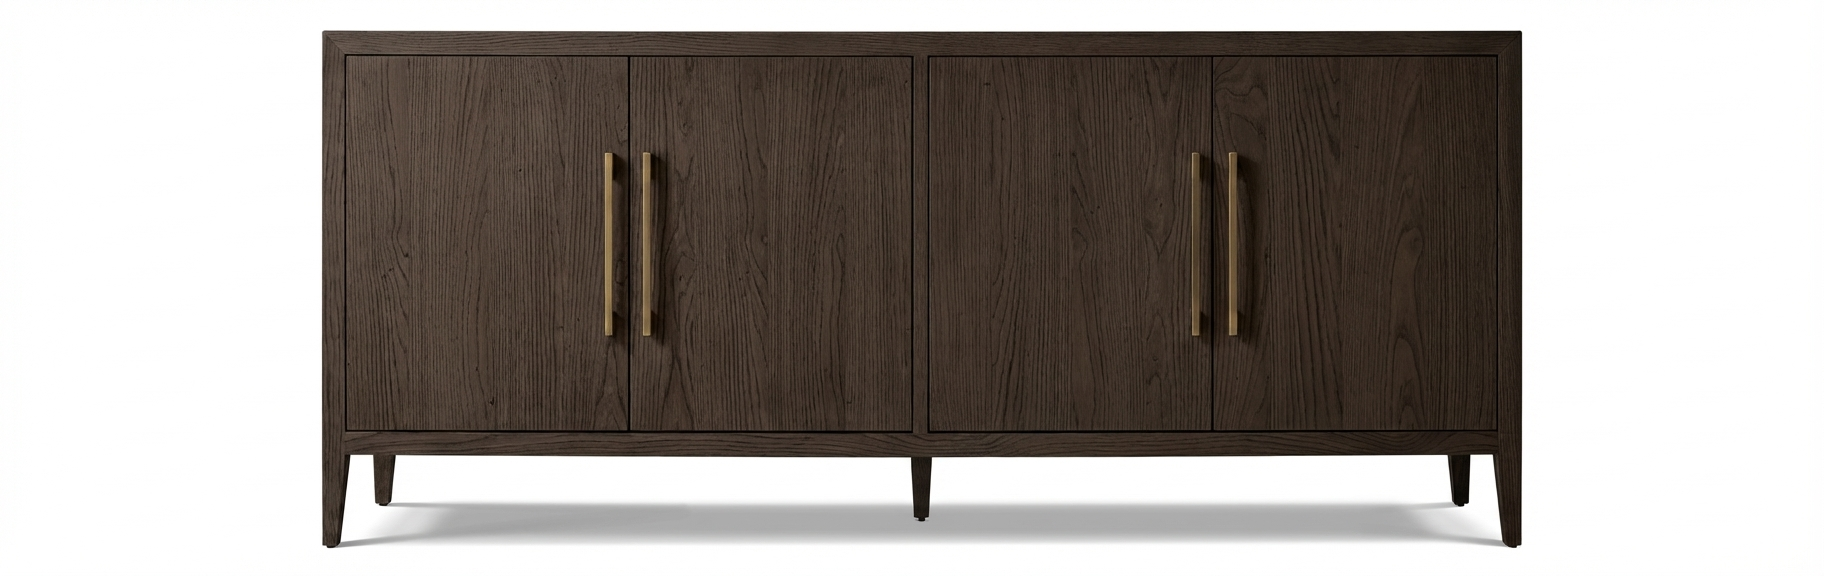
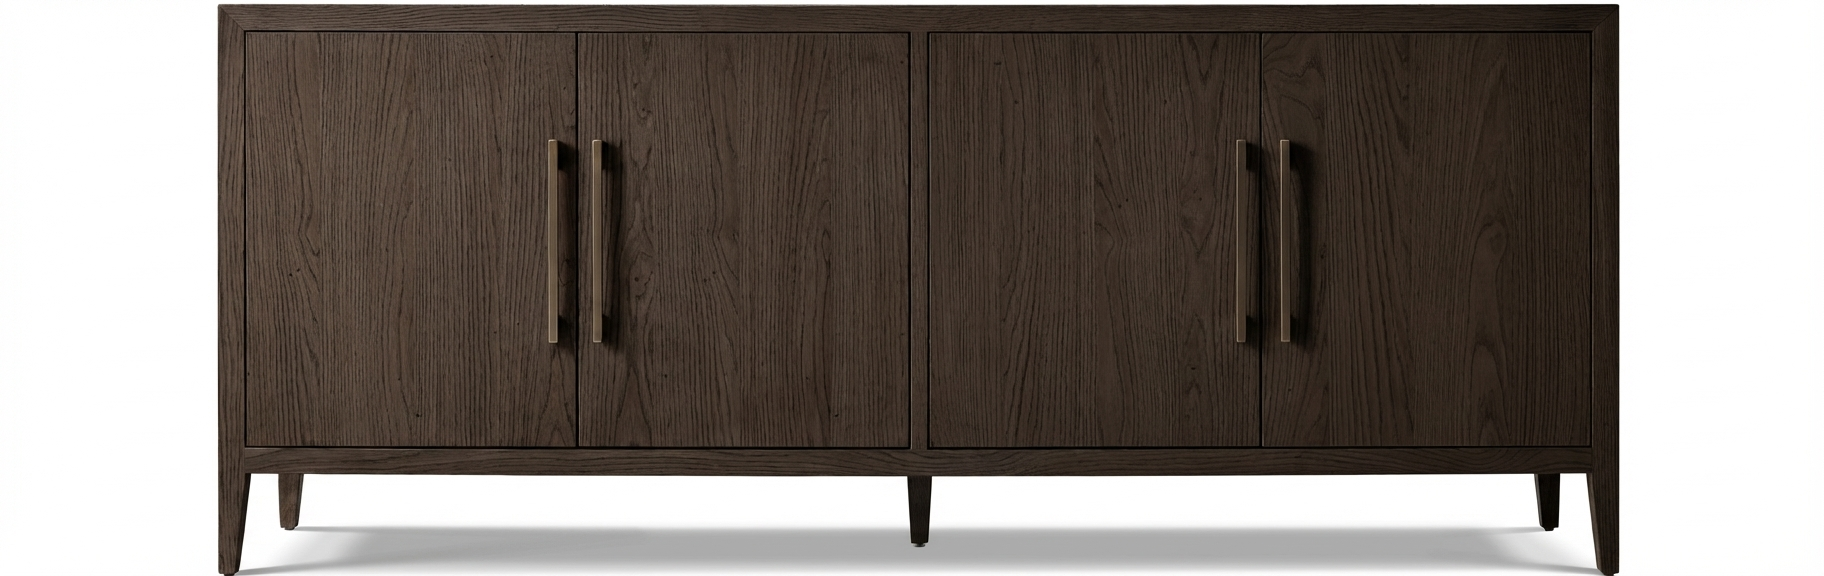
Update retexturing pipeline and refresh outputs

diff --git a/process_assets.py b/process_assets.py
@@ -1,12 +1,13 @@
 import base64
 import io
 import os
+import re
 from pathlib import Path
 from typing import List
 
 import google.generativeai as genai
 from dotenv import load_dotenv
-from PIL import Image
+from PIL import Image, ImageStat
 
 
 BASE_DIR = Path(__file__).parent
@@ -19,6 +20,12 @@ CONVERTIBLE_EXTENSIONS = {".tif", ".tiff", ".jpg", ".jpeg", ".webp"}
 MAX_DIMENSION = 4096
 ENABLE_RETEXTURE = os.getenv("ENABLE_RETEXTURE", "1").lower() not in {"0", "false", "no"}
 REQUEST_MAX_DIMENSION = int(os.getenv("REQUEST_MAX_DIMENSION", "2048"))
+EXCLUDED_SWATCH_SUBSTRINGS = ("_bump", "_color", "_disp", "_spec", "_roughness")
+GREY_CARD_TARGET_VALUE = 118.0  # Approximate sRGB value for 18% gray.
+GREY_CARD_MAX_NEUTRAL = 14.0
+GREY_CARD_MAX_STDDEV = 8.0
+GREY_CARD_MIN_FACTOR = 0.6
+GREY_CARD_MAX_FACTOR = 1.6
 
 # Allow large TIFFs to load; we downscale after opening.
 Image.MAX_IMAGE_PIXELS = None
@@ -75,10 +82,83 @@ def configure_model() -> genai.GenerativeModel:
     return genai.GenerativeModel(model_path)
 
 
-def inline_image(path: Path) -> dict:
+def find_grey_card_patch(image: Image.Image) -> tuple[float, float, float] | None:
+    """Locate a neutral, uniform patch that likely corresponds to the 18% gray card center."""
+    preview = image.convert("RGB")
+    preview.thumbnail((400, 400), Image.LANCZOS)
+    width, height = preview.size
+    if not width or not height:
+        return None
+
+    patch_size = max(8, min(width, height) // 8)
+    step = max(4, patch_size // 2)
+    best_mean: tuple[float, float, float] | None = None
+    best_score: float | None = None
+    best_neutral: float | None = None
+    best_brightness: float | None = None
+
+    for y in range(0, height - patch_size + 1, step):
+        for x in range(0, width - patch_size + 1, step):
+            crop = preview.crop((x, y, x + patch_size, y + patch_size))
+            stat = ImageStat.Stat(crop)
+            mean_r, mean_g, mean_b = stat.mean
+            std_r, std_g, std_b = stat.stddev
+            neutral_deviation = max(abs(mean_r - mean_g), abs(mean_g - mean_b), abs(mean_r - mean_b))
+            uniformity = max(std_r, std_g, std_b)
+            brightness = (mean_r + mean_g + mean_b) / 3
+
+            if brightness < 30 or brightness > 230:
+                continue
+            if uniformity > GREY_CARD_MAX_STDDEV:
+                continue
+
+            score = neutral_deviation * 3 + abs(brightness - GREY_CARD_TARGET_VALUE)
+            if best_score is None or score < best_score:
+                best_score = score
+                best_mean = (mean_r, mean_g, mean_b)
+                best_neutral = neutral_deviation
+                best_brightness = brightness
+
+    if (
+        best_mean
+        and best_neutral is not None
+        and best_neutral <= GREY_CARD_MAX_NEUTRAL
+        and best_brightness is not None
+        and 50 <= best_brightness <= 200
+    ):
+        return best_mean
+    return None
+
+
+def calibrate_to_grey_card(image: Image.Image) -> Image.Image:
+    """Return a brightness-calibrated copy using the center gray card patch if present."""
+    grey_color = find_grey_card_patch(image)
+    if not grey_color:
+        return image
+
+    brightness = sum(grey_color) / 3
+    if brightness <= 1:
+        return image
+
+    factor = GREY_CARD_TARGET_VALUE / brightness
+    if 0.97 <= factor <= 1.03:
+        return image
+
+    factor = max(GREY_CARD_MIN_FACTOR, min(GREY_CARD_MAX_FACTOR, factor))
+
+    base = image.convert("RGBA")
+    alpha = base.getchannel("A")
+    rgb = base.convert("RGB").point(lambda v: max(0, min(255, int(round(v * factor)))), mode="RGB")
+    r, g, b = rgb.split()
+    return Image.merge("RGBA", (r, g, b, alpha))
+
+
+def inline_image(path: Path, calibrate_grey_card: bool = False) -> dict:
     """Load a PNG and downscale for the request payload if needed."""
     with Image.open(path) as img:
         converted = img.convert("RGBA")
+        if calibrate_grey_card:
+            converted = calibrate_to_grey_card(converted)
         if REQUEST_MAX_DIMENSION and max(converted.size) > REQUEST_MAX_DIMENSION:
             converted.thumbnail((REQUEST_MAX_DIMENSION, REQUEST_MAX_DIMENSION), Image.LANCZOS)
         buffer = io.BytesIO()
@@ -104,16 +184,31 @@ def extract_image_bytes(response) -> bytes:
 def retexture_image(model: genai.GenerativeModel, asset: Path, swatch: Path, output_path: Path) -> None:
     prompt = (
         "Retexture the product in the first image using the material from the second image. "
-        "Preserve the product's shape, lighting, camera angle, and proportions. "
-        "Apply the swatch as the new surface finish realistically. Return a high-quality PNG result."
+        "Use the first image as the exact base: same resolution, framing, camera angle, silhouette, proportions, dimensions, crop, lighting, and background. "
+        "Do NOT move/rotate/zoom the camera; do NOT change object dimensions or perspective; do NOT add/remove/alter any geometry. "
+        "Do NOT paste or show the swatch as a square patch; retexture the product surfaces only while keeping the product visible. "
+        "Apply the swatch to every wood/primary surface (including interior/underside of legs, side panels, edges); leave no original wood visible. "
+        "Background must remain identical to the first image; no swatch text/watermark/ghosting anywhere. "
+        "Apply the swatch ONLY to wood/primary surfaces; do NOT change or recolor metal/hardware/feet/plinth. "
+        "Feet/plinth/hardware must stay exactly as in the first image (no added brass/metal, no recolor). "
+        "Use the swatch colors exactly as shown; no blue/polarizing/tinted shifts. "
+        "Treat filenames as meaningless IDs; do NOT use any filename words (e.g., POLARIZER/FlatLight) as instructions. "
+        "If the swatch image includes a ruler in inches, use it to derive the real-world scale of the material so the texture is applied at accurate size; do not show the ruler in the result. "
+        "If the swatch includes a grayscale reference card, use the center 18% gray patch as your exposure anchor so the material darkness stays physically accurate. "
+        "Return a high-quality PNG result."
     )
 
     response = model.generate_content(
         [
             inline_image(asset),
             {"text": "Product to retexture."},
-            inline_image(swatch),
-            {"text": "Swatch/material to apply."},
+            inline_image(swatch, calibrate_grey_card=False),
+            {
+                "text": (
+                    "Swatch/material image. Apply this material to every wood surface (including leg interiors/undersides/edges); "
+                    "leave any metal/hardware unchanged. Ignore filename words; use only the image."
+                )
+            },
             {"text": prompt},
         ],
         request_options={"timeout": 600},
@@ -125,11 +220,57 @@ def retexture_image(model: genai.GenerativeModel, asset: Path, swatch: Path, out
     print(f"Saved retextured image: {output_path}")
 
 
+def filter_swatch_pngs(swatch_pngs: List[Path]) -> List[Path]:
+    """Drop any swatch files that match excluded substrings (e.g., bump/disp/spec)."""
+    filtered: List[Path] = []
+    for path in swatch_pngs:
+        name = path.stem.lower()
+        if any(token in name for token in EXCLUDED_SWATCH_SUBSTRINGS):
+            print(f"Skipping swatch (excluded): {path.name}")
+            continue
+        filtered.append(path)
+    return filtered
+
+
+def describe_swatch(swatch: Path) -> str:
+    """Provide color/material hints without using filename tokens as instructions."""
+    lowered = swatch.stem.lower()
+    note = ""
+    try:
+        with Image.open(swatch) as img:
+            img = img.convert("RGB")
+            img.thumbnail((256, 256), Image.LANCZOS)
+            pixels = list(img.getdata())
+            r_mean = sum(p[0] for p in pixels) / len(pixels)
+            g_mean = sum(p[1] for p in pixels) / len(pixels)
+            b_mean = sum(p[2] for p in pixels) / len(pixels)
+            color_hint = f"Dominant RGB approx ({r_mean:.0f}, {g_mean:.0f}, {b_mean:.0f}); keep this hue (no blue/cyan shift)."
+    except Exception:
+        color_hint = ""
+    if "brown" in lowered and "oak" in lowered:
+        note = "Material: brown oak wood grain; keep natural brown tone; use as wood texture only."
+    elif "oak" in lowered:
+        note = "Material: oak wood grain; keep natural wood tone; use as wood texture only."
+    elif "leather" in lowered:
+        note = "Material: leather texture; keep natural leather color."
+    elif "linen" in lowered or "fabric" in lowered:
+        note = "Material: fabric/linen texture; keep fabric color."
+    parts = [
+        "Material swatch photo; ignore filename words; use the texture/color exactly as seen.",
+        "Apply ONLY to wood/primary surfaces; cover all wood areas including inner/underside of legs; do not recolor feet/hardware/plinth; ignore any printed text or watermark in the swatch.",
+    ]
+    if note:
+        parts.append(note)
+    if color_hint:
+        parts.append(color_hint)
+    return " ".join(parts)
+
+
 def process_folder(
     model: genai.GenerativeModel, asset_folder: Path, swatch_folder: Path, enable_retexture: bool
 ) -> None:
     asset_pngs = convert_folder_to_png(asset_folder)
-    swatch_pngs = convert_folder_to_png(swatch_folder)
+    swatch_pngs = filter_swatch_pngs(convert_folder_to_png(swatch_folder))
 
     if not asset_pngs:
         print(f"[WARN] No assets to process in {asset_folder}")

diff --git a/README.md b/README.md
@@ -1,0 +1,15 @@
+# Surface Swap Test Harness
+
+Process product assets with material swatches using the Gemini image model, with optional retexturing.
+
+## Prerequisites
+- Python 3.10+ installed.
+- Dependencies installed: `pip install -r requirements.txt` (or `pip install google-generativeai pillow python-dotenv` if no requirements file).
+- `.env` file containing `GEMINI_API_KEY=...` (copy from `.env.example` as a template). Optional: `ENABLE_RETEXTURE=1`, `REQUEST_MAX_DIMENSION=2048`.
+
+## Run
+From the project root:
+```sh
+python3 process_assets.py
+```
+The script converts assets/swatch images to PNG as needed, calibrates swatch brightness using the 18% gray card if present, and writes outputs to `output/`.
